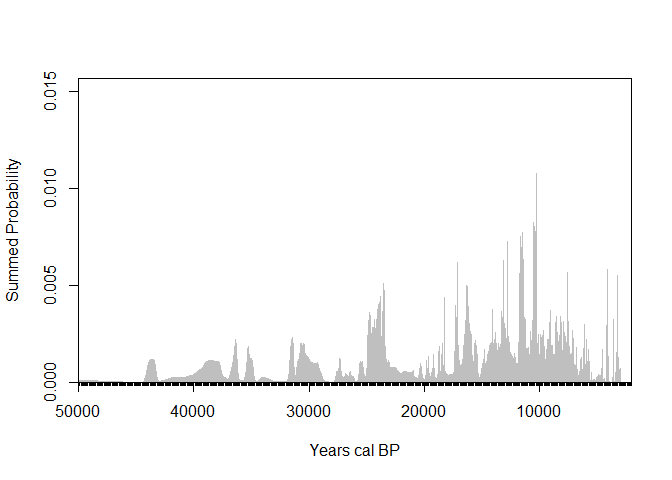
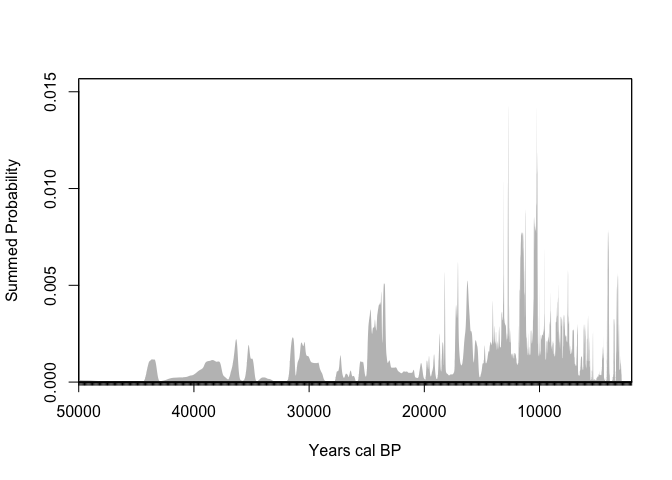
update data, SPD annotations

diff --git a/README.md b/README.md
@@ -86,13 +86,7 @@ plot(spd_unbinned)
 #| fig-cap: Unbinned SPD plot with climate events overlayed 
 ```
 
-<div id="fig-unbinned">
-
 ![](README_files/figure-commonmark/fig-unbinned-1.png)
-
-Figure 1: Unbinned SPD plot
-
-</div>
 
 ``` r
 # with ggplot2
@@ -340,13 +334,7 @@ ggplot(spd_unbinned$grid) +
   theme_minimal() 
 ```
 
-<div id="fig-unbinned-climate">
-
 ![](README_files/figure-commonmark/fig-unbinned-climate-1.png)
-
-Figure 2: Unbinned SPD plot with climate events overlayed
-
-</div>
 
 In <a href="#fig-unbinned" class="quarto-xref">Figure 1</a> there is a
 continuous occupation of Southeast Asia from 25000 BP to present
@@ -371,13 +359,7 @@ spd_res <- spd(
 plot(spd_res)
 ```
 
-<div id="fig-100-bin">
-
 ![](README_files/figure-commonmark/fig-100-bin-1.png)
-
-Figure 3: SPD plot with a bin of 100 years
-
-</div>
 
 In <a href="#fig-100-bin" class="quarto-xref">Figure 3</a> the peaks are
 consistent but grow more intense the only exceptions being the hills
@@ -402,13 +384,7 @@ spd_res <- spd(
 plot(spd_res)
 ```
 
-<div id="fig-200-bin">
-
 ![](README_files/figure-commonmark/fig-200-bin-1.png)
-
-Figure 4: SPD plot with a bin of 200 years
-
-</div>
 
 ``` r
 ggplot(spd_res$grid) +
@@ -655,13 +631,7 @@ ggplot(spd_res$grid) +
   theme_minimal() 
 ```
 
-<div id="fig-200-bin-climate">
-
 ![](README_files/figure-commonmark/fig-200-bin-climate-1.png)
-
-Figure 5: SPD plot with a bin of 200 years with climate events overlayed
-
-</div>
 
 In <a href="#fig-200-bin" class="quarto-xref">Figure 4</a> the changes
 are more noticeable as the peak around 13 ka and just before 10 ka is
@@ -684,13 +654,7 @@ spd_res <- spd(
 plot(spd_res)
 ```
 
-<div id="fig-500-bin">
-
 ![](README_files/figure-commonmark/fig-500-bin-1.png)
-
-Figure 6: SPD plot with a bin of 500 years
-
-</div>
 
 In <a href="#fig-500-bin" class="quarto-xref">Figure 6</a> the peaks
 around 13 ka are even more intense but the hill around 14 ka depresses a
@@ -714,13 +678,7 @@ spd_res <- spd(
 plot(spd_res)
 ```
 
-<div id="fig-5000-bin">
-
 ![](README_files/figure-commonmark/fig-5000-bin-1.png)
-
-Figure 7: SPD plot with a bin of 5000 years
-
-</div>
 
 In <a href="#fig-5000-bin" class="quarto-xref">Figure 7</a> a lot of the
 hills depress however a couple of them spike up into their own peaks
@@ -755,13 +713,7 @@ spd_thin <- spd(
 plot(spd_thin)
 ```
 
-<div id="fig-thinned">
-
 ![](README_files/figure-commonmark/fig-thinned-1.png)
-
-Figure 8: SPD plot with thinning
-
-</div>
 
 In <a href="#fig-thinned" class="quarto-xref">Figure 8</a> the thinning
 caused more mild variation like the 100 and 200 year bins but the peaks
@@ -786,13 +738,7 @@ Sea.ckde = ckde(ckde_res,
 plot(Sea.ckde, type = 'multiline')
 ```
 
-<div id="fig-CKDE">
-
 ![](README_files/figure-commonmark/fig-CKDE-1.png)
-
-Figure 9: CKDE plot
-
-</div>
 
 In <a href="#fig-CKDE" class="quarto-xref">Figure 9</a> the bands show a
 consistent occupation but support the notion of increased intensity
@@ -816,7 +762,7 @@ library(rnaturalearthdata)
 library(sf)
 ```
 
-    Linking to GEOS 3.13.1, GDAL 3.11.4, PROJ 9.7.0; sf_use_s2() is TRUE
+    Linking to GEOS 3.13.0, GDAL 3.5.3, PROJ 9.5.1; sf_use_s2() is TRUE
 
 ``` r
 library(ggrepel)
